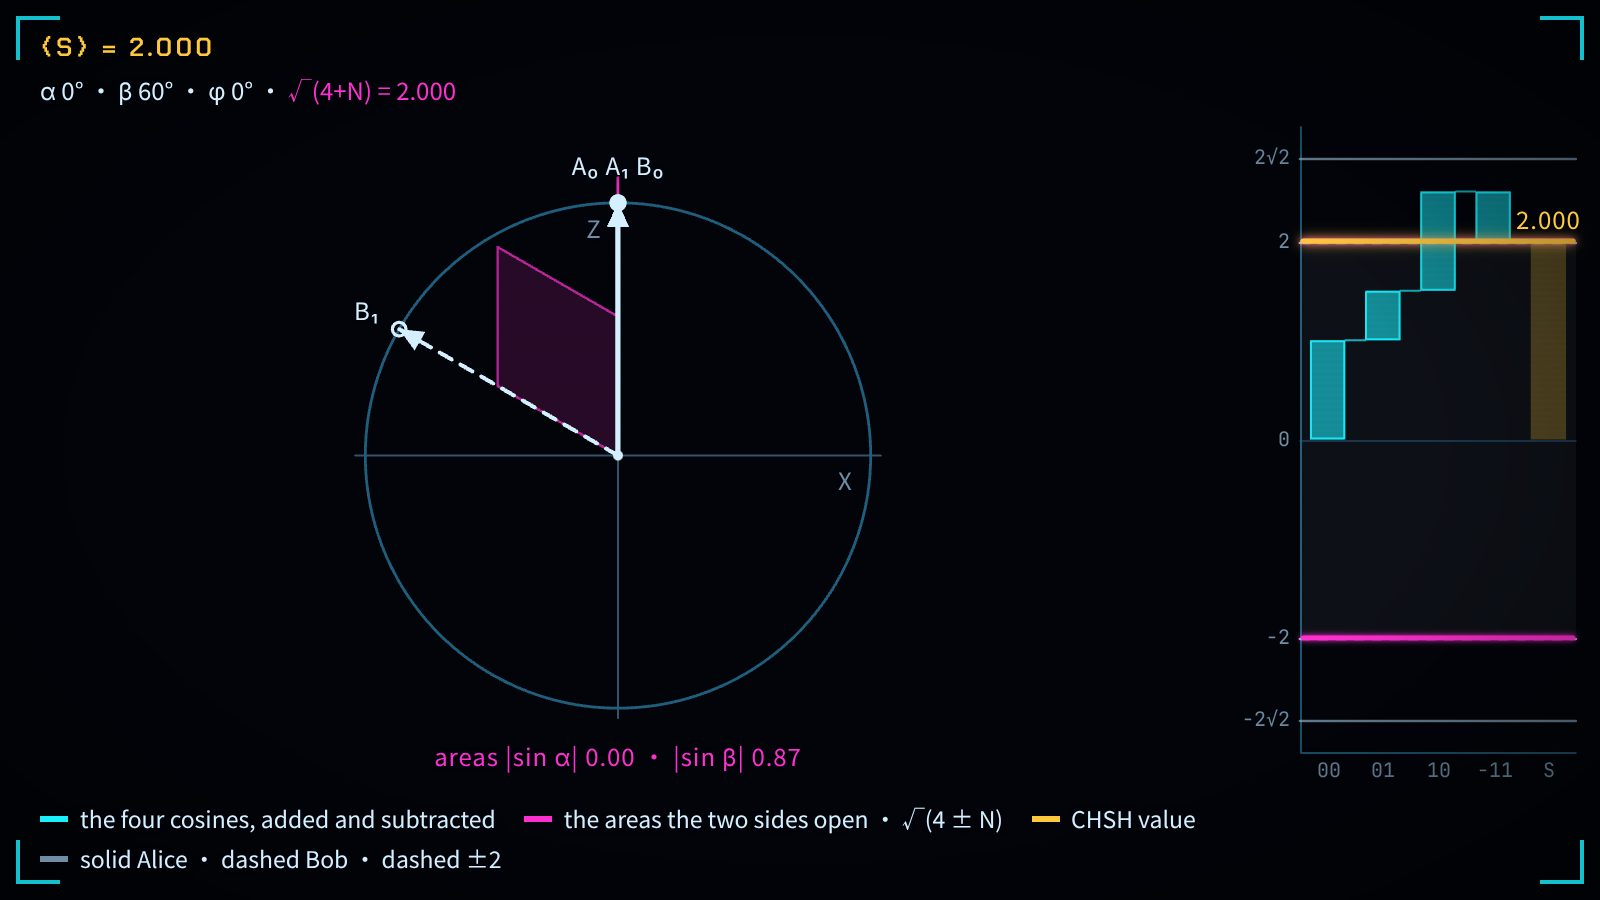
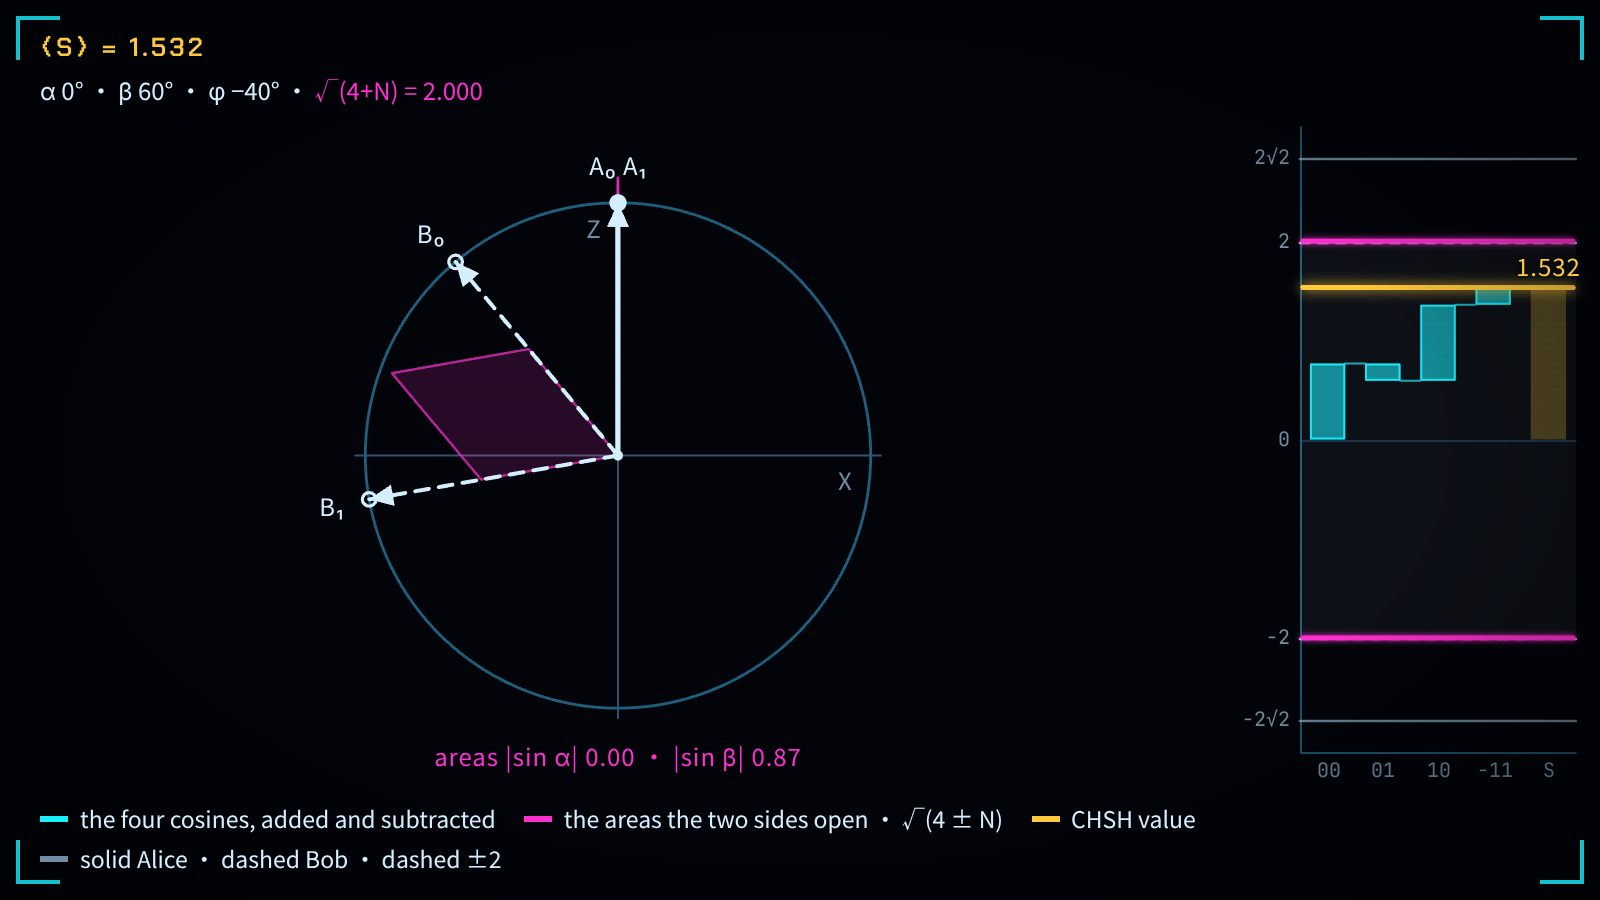
chsh-dial: COLLINEAR still at phi = -40 degrees so the magenta mark and the labels stand clear

diff --git a/books/quantum-geometry/viz/chsh-dial/main.js b/books/quantum-geometry/viz/chsh-dial/main.js
@@ -341,7 +341,7 @@
     return Math.atan2(im, re) / DEG;
   }
   const PRESETS = {
-    collinear: { scene: 'dial', a0: 0, a1: 0, beta: 60, from: -90, to: 90, still: 0 },
+    collinear: { scene: 'dial', a0: 0, a1: 0, beta: 60, from: -90, to: 90, still: -40 },
     sixty: { scene: 'dial', a0: 0, a1: 60, beta: 60, from: 0, to: bestPhi(0, 60, 60), still: 0 },
     cross: { scene: 'dial', a0: 0, a1: 90, beta: 90, still: 0 },
     sweep: { scene: 'dial', a0: 0, a1: 90, beta: 90, from: 0, to: 90, still: 20 },
@@ -350,7 +350,7 @@
     arc: { scene: 'arc', a0: 0, a1: 90, beta: 90, still: 45 }
   };
   const NOTES = {
-    collinear: ['Alice 的两支实线箭头重合在 Z 上，她那块品红面积缩成一条线，量尺上品红的刻度落到 2，和经典上界的虚线重合。时间轴转动 Bob 的一对虚线箭头：琥珀色的横线按 2 cos φ 起落，在 φ = 0° 碰到 2，从不越过。', 'Alice\'s two solid arrows coincide on Z; her magenta area shrinks to a line, and the magenta mark on the gauge drops to 2, onto the dashed classical bound. The rail turns Bob\'s dashed pair: the amber bar rises and falls as 2 cos φ, touches 2 at φ = 0° and never goes past.'],
+    collinear: ['Alice 的两支实线箭头重合在 Z 上，她那块品红面积缩成一条线，量尺上品红的刻度落到 2，和经典上界的虚线重合。时间轴转动 Bob 的一对虚线箭头：琥珀色的横线按 2 cos φ 起落，在 φ = 0° 碰到 2，从不越过；停在 φ = −40° 时它是 1.532，在品红的刻度之下。', 'Alice\'s two solid arrows coincide on Z; her magenta area shrinks to a line, and the magenta mark on the gauge drops to 2, onto the dashed classical bound. The rail turns Bob\'s dashed pair: the amber bar rises and falls as 2 cos φ, touches 2 at φ = 0° and never goes past; stopped at φ = −40° it reads 1.532, below the magenta mark.'],
     sixty: ['两侧各张 60°，两块品红面积相同，N = 3。φ = 0° 时四段青色 1 + ½ + ½ + ½ 叠到 2.5，越过了虚线 2，离品红的刻度 √7 ≈ 2.646 还差一截；内侧的品红点线在 ±1。Bob 的一对方向转到 19.1°，琥珀色的横线正好碰到 √7。', 'Both sides open 60°, two equal magenta areas, N = 3. At φ = 0° the four cyan steps 1 + ½ + ½ + ½ stack to 2.5, past the dashed 2 but short of the magenta mark √7 ≈ 2.646; the inner dotted magenta marks sit at ±1. Turn Bob\'s pair to 19.1° and the amber bar just touches √7.'],
     cross: ['两侧都张成直角，两块品红面积都是整个正方形，N = 4，品红的刻度升到量尺顶上的 2√2。可 Bob 的十字架与 Alice 的对齐（B₀ 在 A₀ 上，B₁ 与 A₁ 相反），四段青色只是 1 + 0 + 0 + 1 = 2：天花板到了顶，CHSH 值还在经典上界上。', 'Both sides open a right angle, both magenta areas are full squares, N = 4, and the magenta mark rises to 2√2 at the top of the gauge. But Bob\'s cross is aligned with Alice\'s (B₀ on A₀, B₁ opposite A₁), so the four cyan steps are just 1 + 0 + 0 + 1 = 2: the ceiling is at the top, the CHSH value still on the classical bound.'],
     sweep: ['两侧都是直角，时间轴把 Bob 的十字架从 0° 转到 90°：琥珀色的横线按 2√2 cos(φ − 45°) 起落，在 0° 与 90° 是 2，只在 45° 碰到品红的刻度 2√2。停在 20° 时，它是 2.563。', 'Both sides at right angles; the rail turns Bob\'s cross from 0° to 90°. The amber bar rises and falls as 2√2 cos(φ − 45°): 2 at 0° and at 90°, touching the magenta mark 2√2 only at 45°. Stopped at 20° it reads 2.563.'],

diff --git a/books/quantum-geometry/en/ch13-entanglement-and-chsh.md b/books/quantum-geometry/en/ch13-entanglement-and-chsh.md
@@ -274,7 +274,7 @@ The source first rewrites $S^2$ as $4 \cdot 1 + C$ using [@prop-landau-area-squa
 This corollary is an operator identity, and the Lean file says explicitly that it states no expectation bound. Getting from it to the "classical threshold" takes one more step, a manual derivation: $S$ is a sum and difference of Kronecker products of Hermitian matrices, hence Hermitian; $S^2 = 4I$ forces every eigenvalue $\lambda$ to satisfy $\lambda^2 = 4$, so $\lambda = \pm 2$; therefore $2I - S$ and $2I + S$ are both positive semidefinite, and $-2 \le \operatorname{Re}\Tr(\rho S) \le 2$ for every density matrix $\rho$. **If either party's two questions can be asked in either order, quantum correlation cannot cross the classical threshold.**
 
 ::: {.viz src="chsh-dial" preset="collinear" height="500"}
-**When one side asks the same question twice, S cannot pass 2.** Alice's two solid arrows coincide on $Z$; her magenta area shrinks to a line, and the magenta mark on the gauge drops to $2$, onto the dashed classical bound. The rail turns Bob's dashed pair, and the amber bar rises and falls as $2\cos\varphi$, touching $2$ at most ([@cor-chsh-local-commuting-collapse]).
+**When one side asks the same question twice, S cannot pass 2.** Alice's two solid arrows coincide on $Z$; her magenta area shrinks to a line, and the magenta mark on the gauge drops to $2$, onto the dashed classical bound. The rail turns Bob's dashed pair, and the amber bar rises and falls as $2\cos\varphi$, touching $2$ at most; the figure stops at $\varphi = -40^\circ$, with the bar at $2\cos 40^\circ \approx 1.53$ below the magenta mark ([@cor-chsh-local-commuting-collapse]).
 :::
 
 **Both sides open their area partway.** Back to qubits: let Alice's two axes meet at angle $\alpha$ and Bob's at angle $\beta$, so that $\norm{\vv{a}_0 \times \vv{a}_1} = \sin\alpha$ and $\norm{\vv{b}_0 \times \vv{b}_1} = \sin\beta$. A Pauli direction operator $\vv{u}\cdot\vv{\sigma}$ has eigenvalues $\pm\norm{\vv{u}}$, so by the hand formula above $C$ has exactly two eigenvalues, $\pm 4\sin\alpha\sin\beta$ (a manual derivation). The commutator term takes one pair of opposite values, which is precisely the hypothesis of the next proposition.

diff --git a/books/quantum-geometry/zh/ch13-entanglement-and-chsh.md b/books/quantum-geometry/zh/ch13-entanglement-and-chsh.md
@@ -274,7 +274,7 @@ $$
 这条推论是算子恒等式；Lean 文件的说明明确写着，它不陈述任何期望值上界。要由它走到“经典门槛”，还需一段手工推导：$S$ 是厄米矩阵的克罗内克积之和与差，本身厄米；$S^2 = 4I$ 迫使每个特征值 $\lambda$ 满足 $\lambda^2 = 4$，即 $\lambda = \pm 2$；于是 $2I - S$ 与 $2I + S$ 都半正定，对任意密度矩阵 $\rho$ 有 $-2 \le \operatorname{Re}\Tr(\rho S) \le 2$。**只要有一方的两次提问不分先后，量子关联就跨不过经典门槛。**
 
 ::: {.viz src="chsh-dial" preset="collinear" height="500"}
-**一侧的两次提问重合，S 就越不过 2。** Alice 的两支实线箭头重合在 $Z$ 上，她那块品红面积缩成一条线，量尺上品红的刻度落到 $2$，与经典上界的虚线重合；时间轴转动 Bob 的一对虚线箭头，琥珀色的横线按 $2\cos\varphi$ 起落，最高只碰到 $2$（[@cor-chsh-local-commuting-collapse]）。
+**一侧的两次提问重合，S 就越不过 2。** Alice 的两支实线箭头重合在 $Z$ 上，她那块品红面积缩成一条线，量尺上品红的刻度落到 $2$，与经典上界的虚线重合；时间轴转动 Bob 的一对虚线箭头，琥珀色的横线按 $2\cos\varphi$ 起落，最高只碰到 $2$；图停在 $\varphi = -40^\circ$，横线在 $2\cos 40^\circ \approx 1.53$，品红的刻度在它上方（[@cor-chsh-local-commuting-collapse]）。
 :::
 
 **两侧面积都只张开一部分。** 回到单比特：设 Alice 两轴的夹角为 $\alpha$、Bob 两轴的夹角为 $\beta$，则 $\norm{\vv{a}_0 \times \vv{a}_1} = \sin\alpha$，$\norm{\vv{b}_0 \times \vv{b}_1} = \sin\beta$。泡利方向算子 $\vv{u}\cdot\vv{\sigma}$ 的特征值是 $\pm\norm{\vv{u}}$，所以由上面的手算公式，$C$ 只有两个特征值 $\pm 4\sin\alpha\sin\beta$（手工推导）。换位子项只取一对相反的值，这正是下面这条命题的前提。
